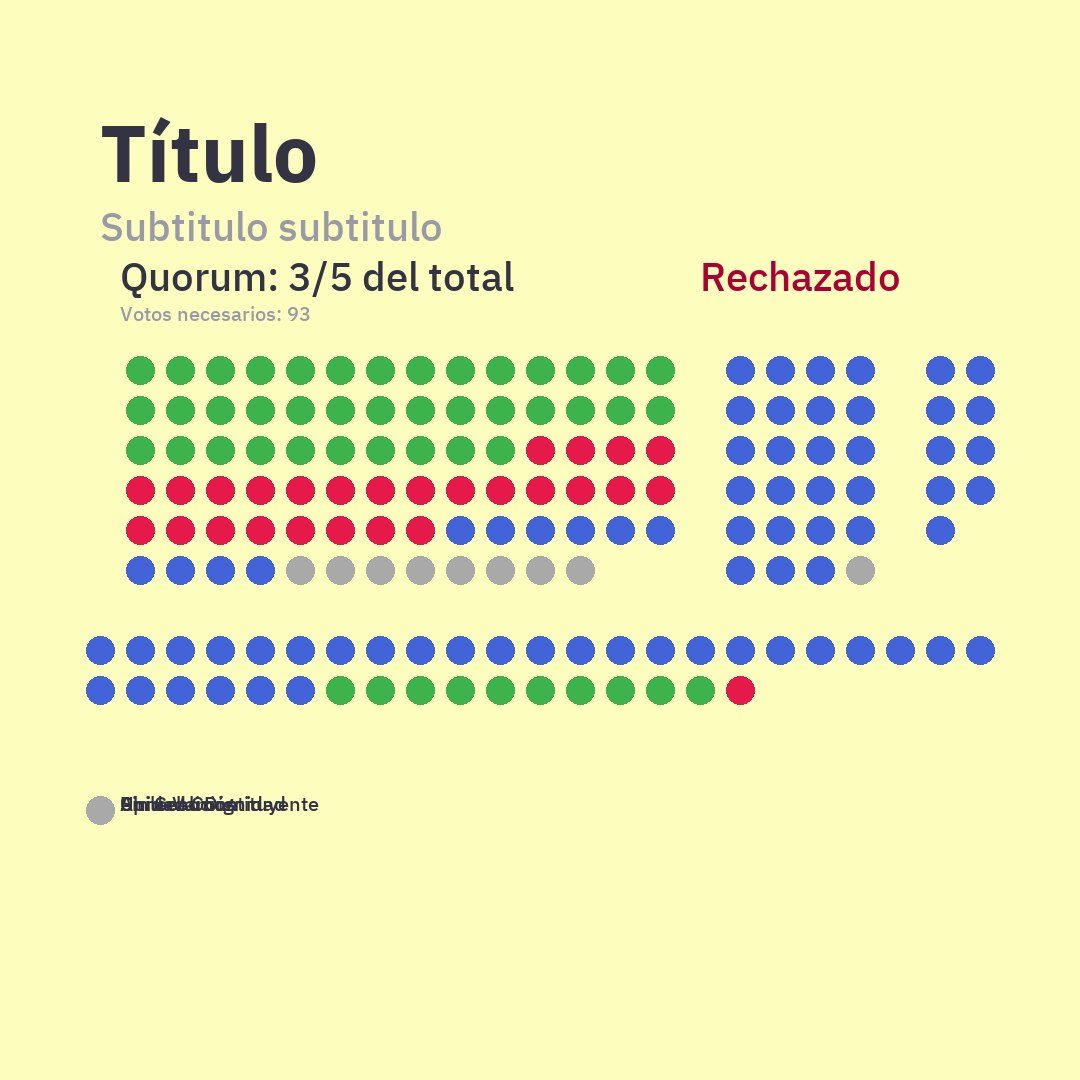
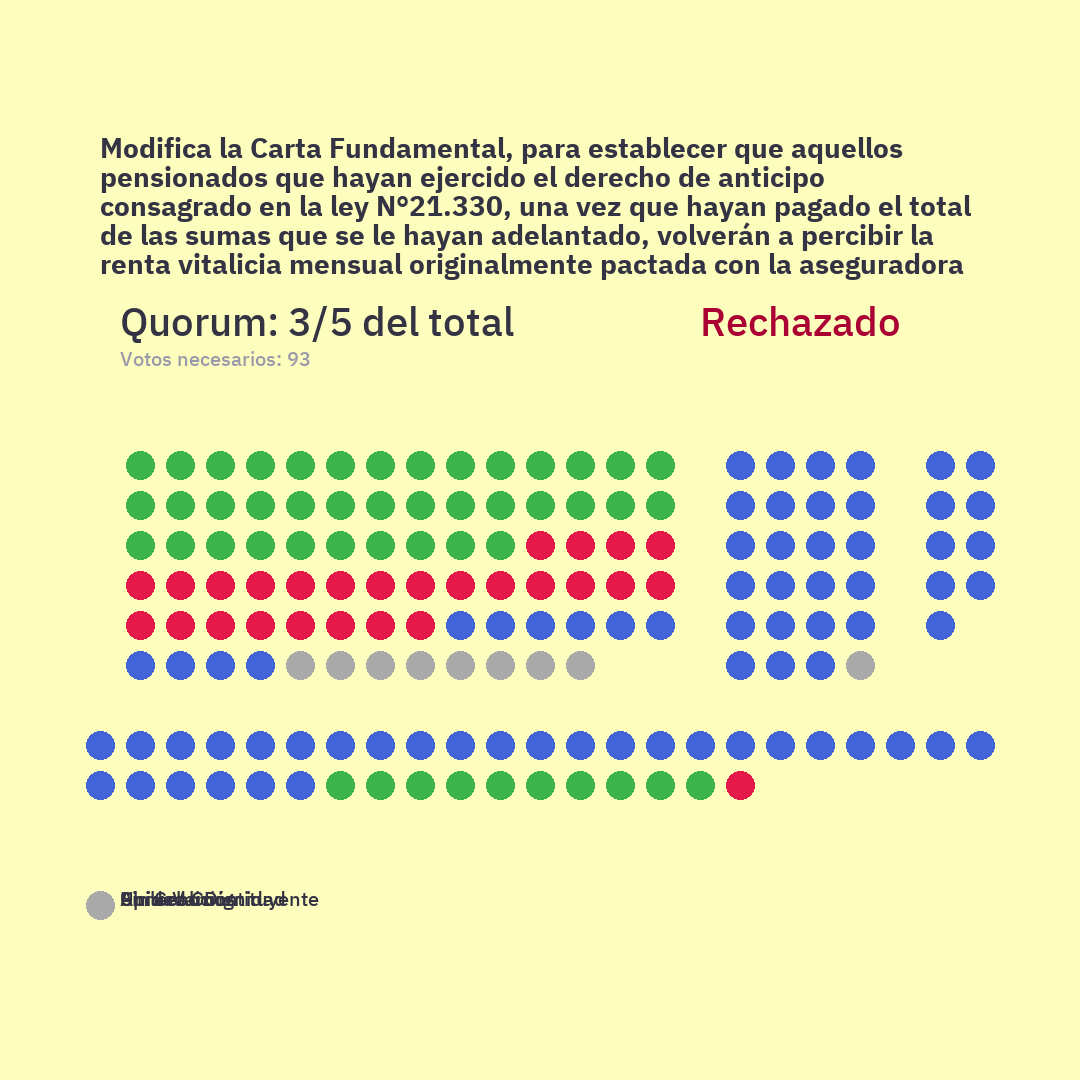
:star: Ajusta automáticamente el título de cada imagen

Changed region(s): [[0.0611, 0.0917, 0.9472, 0.7639], [0.0611, 0.825, 0.3056, 0.8556]]

diff --git a/draw/image_utils.py b/draw/image_utils.py
@@ -1,0 +1,126 @@
+#!/usr/bin/env python
+# coding: utf-8
+
+# Basado en https://gist.github.com/josephkern/69591e9bc1d2e07a46d35d2a3ab66542
+# Copyright 2011 Álvaro Justen [alvarojusten at gmail dot com]
+# License: GPL <http://www.gnu.org/copyleft/gpl.html>
+
+
+from PIL import ImageDraw, ImageFont
+import textwrap
+
+
+class ImageDraw(ImageDraw.ImageDraw):
+    def __init__(self, *args, **kwargs):
+        super().__init__(*args, **kwargs)
+        # self.im
+        self.size = self.im.size
+
+    def get_font_size(self, text, font, max_width=None, max_height=None):
+        if max_width is None and max_height is None:
+            raise ValueError('You need to pass max_width or max_height')
+        font_size = 1
+        text_size = self.get_text_size(font, font_size, text)
+        if (max_width is not None and text_size[0] > max_width) or \
+           (max_height is not None and text_size[1] > max_height):
+            return -1
+        while True:
+            if (max_width is not None and text_size[0] >= max_width) or \
+               (max_height is not None and text_size[1] >= max_height):
+                return font_size - 1
+            font_size += 1
+            text_size = self.get_text_size(font, font_size, text)
+
+    def write_text(self, xy, text, font_filename, font_size=11,
+                   color=(0, 0, 0), max_width=None, max_height=None):
+        x, y = xy
+        #if isinstance(text, str):
+        #    text = text.decode(self.encoding)
+        if font_size == 'fill' and \
+           (max_width is not None or max_height is not None):
+            font_size = self.get_font_size(text, font_filename, max_width,
+                                           max_height)
+        text_size = self.get_text_size(font_filename, font_size, text)
+        font = ImageFont.truetype(font_filename, font_size)
+        if x == 'center':
+            x = (self.size[0] - text_size[0]) / 2
+        if y == 'center':
+            y = (self.size[1] - text_size[1]) / 2
+        self.text((x, y), text, font=font, fill=color)
+        return text_size
+
+    def get_text_size(self, font_filename, font_size, text):
+        """Si 'text' contiene un \n se reconoce como multilinea"""
+        font = ImageFont.truetype(font_filename, font_size)
+        return font.getsize_multiline(text)
+
+    def write_text_box(self, xy, text, box_width, box_height, font_filename,
+                       font_size=11, color=(0, 0, 0), place='left',
+                       justify_last_line=False):
+        x, y = xy
+        if font_size == 'fill' and \
+           (box_width is not None and box_height is not None):
+            font_size = -1
+            for lines in range(1, 10):
+                wrapped_text = textwrap.fill(text, width=len(text)//lines)
+                new_font_size = self.get_font_size(wrapped_text, font_filename, box_width,
+                                           box_height)
+                if new_font_size > font_size:
+                    font_size = new_font_size
+        if font_size == -1:
+            raise ValueError("Text can't be filled")
+        lines = []
+        line = []
+        words = text.split()
+        for word in words:
+            new_line = ' '.join(line + [word])
+            size = self.get_text_size(font_filename, font_size, new_line)
+            text_height = size[1]
+            if size[0] <= box_width:
+                line.append(word)
+            else:
+                lines.append(line)
+                line = [word]
+        if line:
+            lines.append(line)
+        lines = [' '.join(line) for line in lines if line]
+        height = y
+        for index, line in enumerate(lines):
+            height += text_height
+            if place == 'left':
+                self.write_text((x, height), line, font_filename, font_size,
+                                color)
+            elif place == 'right':
+                total_size = self.get_text_size(font_filename, font_size, line)
+                x_left = x + box_width - total_size[0]
+                self.write_text((x_left, height), line, font_filename,
+                                font_size, color)
+            elif place == 'center':
+                total_size = self.get_text_size(font_filename, font_size, line)
+                x_left = int(x + ((box_width - total_size[0]) / 2))
+                self.write_text((x_left, height), line, font_filename,
+                                font_size, color)
+            elif place == 'justify':
+                words = line.split()
+                if (index == len(lines) - 1 and not justify_last_line) or \
+                   len(words) == 1:
+                    self.write_text((x, height), line, font_filename, font_size,
+                                    color)
+                    continue
+                line_without_spaces = ''.join(words)
+                total_size = self.get_text_size(font_filename, font_size,
+                                                line_without_spaces)
+                space_width = (box_width - total_size[0]) / (len(words) - 1.0)
+                start_x = x
+                for word in words[:-1]:
+                    self.write_text((start_x, height), word, font_filename,
+                                    font_size, color)
+                    word_size = self.get_text_size(font_filename, font_size,
+                                                    word)
+                    start_x += word_size[0] + space_width
+                last_word_size = self.get_text_size(font_filename, font_size,
+                                                    words[-1])
+                last_word_x = x + box_width - last_word_size[0]
+                self.write_text((last_word_x, height), words[-1], font_filename,
+                                font_size, color)
+        return (box_width, height - y)

diff --git a/draw/draw.py b/draw/draw.py
@@ -4,8 +4,10 @@ Propósito del módulo: Abstraer la generación de gráficas a diferentes contex
 
 # https://pillow.readthedocs.io/en/stable/reference/ImageDraw.html
 from palette import color_partido, color_coalicion, random_color
-from PIL import Image, ImageDraw, ImageFont
+from PIL import Image, ImageFont
+from image_utils import ImageDraw
 from math import ceil
+import textwrap
 import sys
 import os
 
@@ -14,11 +16,13 @@ import os
 
 # Situa todos los path en la carpeta draw
 path_base = os.getcwd() + '/'.join([''] + sys.argv[0].split('/')[:-1])
+path_root = '/'.join(path_base.split('/')[:-1])
 
 # Se definen las tipografías a utilizar
-title    = ImageFont.truetype(f'{path_base}/fonts/IBM-Plex-Sans/IBMPlexSans-Bold.ttf',   80)
-subtitle = ImageFont.truetype(f'{path_base}/fonts/IBM-Plex-Sans/IBMPlexSans-Medium.ttf', 40)
-normal   = ImageFont.truetype(f'{path_base}/fonts/IBM-Plex-Sans/IBMPlexSans-Medium.ttf', 20)
+font_title_path = f'{path_root}/draw/fonts/IBM-Plex-Sans/IBMPlexSans-Bold.ttf'
+title    = ImageFont.truetype(font_title_path,   80)
+subtitle = ImageFont.truetype(f'{path_root}/draw/fonts/IBM-Plex-Sans/IBMPlexSans-Medium.ttf', 40)
+normal   = ImageFont.truetype(f'{path_root}/draw/fonts/IBM-Plex-Sans/IBMPlexSans-Medium.ttf', 20)
 
 R = 20
 r = 0.7 * R
@@ -263,25 +267,21 @@ def create_image(titulo='', subtitulo='', resultado='', quorum='', nquorum=-1, g
     '''
     # Abre imagen vacía
     im   = Image.open("draw/img/plantilla.png")
-    draw = ImageDraw.Draw(im)
+    draw = ImageDraw(im)
 
     # Escribe encabezado
-    # TODO: Arreglar el ingreso de los títulos como argumento
-    #titulo = input("Ingresa un título: ")
-    titulo = "Título"
-    draw.text((100,100), titulo,    font=title,    fill='#333344')
-    #titulo = input("Ingresa un subtítulo: ")
-    subtitulo = "Subtitulo subtitulo"
-    draw.text((100,200), subtitulo, font=subtitle, fill='#9999AA')
-    draw.text((700,250), resultado, font=subtitle, fill='#AA0033')
+    title_size = draw.write_text_box((100, 100), titulo, box_width=880, box_height=200,
+                   font_filename=font_title_path, font_size='fill', color='#333344')
+    print()
+    draw.text((700,title_size[1]+150), resultado, font=subtitle, fill='#AA0033')
     if nquorum > 0:
-        draw.text((120,250), f"Quorum: {quorum}", font=subtitle, fill='#333344')
-        draw.text((120,300), f"Votos necesarios: {nquorum}", font=normal, fill='#9999AA')
+        draw.text((120,title_size[1]+150), f"Quorum: {quorum}", font=subtitle, fill='#333344')
+        draw.text((120,title_size[1]+200), f"Votos necesarios: {nquorum}", font=normal, fill='#9999AA')
 
     # Dibuja opciones
     total_col = 23
     global_iniX = (1080 - 40*total_col) // 2
-    global_iniY = 350
+    global_iniY = title_size[1]+300
         #   Horizontal
     total_colH = total_col - len(opcionesH)
     votosH = sum_votes((opcionesH,))
@@ -326,6 +326,13 @@ def create_image(titulo='', subtitulo='', resultado='', quorum='', nquorum=-1, g
 
     # Dibuja banner inferior
     # TODO: Dibujar banner inferior
-
-    #im.show()
+    
     return im
+
+
+
+
+if __name__ == "__main__":
+    titulo = "Suprime el rango etario para ejercer el permiso laboral establecido en el artículo 66 bis del Código del Trabajo."
+    dimensiones = (880, 100)
+    ajustar_fuente(title, titulo, dimensiones)

diff --git a/diputados/votaciones.py b/diputados/votaciones.py
@@ -21,6 +21,11 @@ def _get_data(votacion_info, dataname):
         return datatitle.find_next('strong').text.strip()
     return ""               # En caso de que no existan datos con el texto dataname
 
+# Obtiene el título de una votación por medio de su HTML
+def get_titulo(votacion_info):
+    titulo = _get_data(votacion_info, "materia")
+    return titulo
+
 # Obtiene la fecha de una votación por medio de su HTML
 def get_fecha(votacion_info):
     fecha = _get_data(votacion_info, "fecha")
@@ -65,6 +70,7 @@ def get_en_contra(votacion_info):
 def get_votacion(id):
     diputados = get_diputados()
     votacion_info = api.get_votacion(id)
+    titulo     = get_titulo(votacion_info)
     fecha      = get_fecha(votacion_info)
     tipo       = get_tipo(votacion_info)
     resultado  = get_resultado(votacion_info)
@@ -73,7 +79,7 @@ def get_votacion(id):
     abstencion = get_abstencion(votacion_info)
     en_contra  = get_en_contra(votacion_info)
     votos      = votacion_info.find_all('h3')
-    return Votacion(id, fecha, tipo, resultado, quorum, a_favor, abstencion, en_contra, diputados, votos)
+    return Votacion(id, titulo, fecha, tipo, resultado, quorum, a_favor, abstencion, en_contra, diputados, votos)
 
 
 

diff --git a/diputados/models.py b/diputados/models.py
@@ -35,8 +35,9 @@ class Diputado:
             self.pareo_id = pareo_id
 
 class Votacion:
-    def __init__(self, id, fecha, tipo, resultado, quorum, a_favor, abstencion, en_contra, diputados, votos):
+    def __init__(self, id, titulo, fecha, tipo, resultado, quorum, a_favor, abstencion, en_contra, diputados, votos):
         self.id         = int(id)
+        self.titulo     = titulo
         self.fecha      = time.strptime(fecha, '%d %m %Y')
         self.tipo       = tipo
         self.resultado  = resultado
@@ -151,6 +152,7 @@ class Votacion:
     def json(self):
         return {
             "id": self.id,
+            "titulo": self.titulo,
             "fecha": self.fecha,
             "tipo": self.tipo,
             "resultado": self.resultado,

diff --git a/draw/main.py b/draw/main.py
@@ -30,7 +30,7 @@ if __name__ == "__main__":
     votacion_por_partido   = votacion_info["info_por_partido"]
     votacion_por_coalicion = votacion_info["info_por_coalicion"]
 
-    titulo = ""
+    titulo = votacion_info["titulo"]
     # Si fue ingresado como argumento, rescatamos el título de la visualización
     if len(sys.argv) > 2:
         titulo = sys.argv[2]
